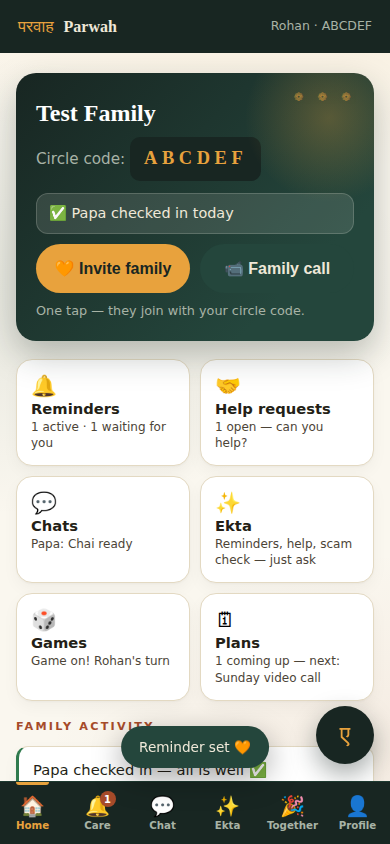
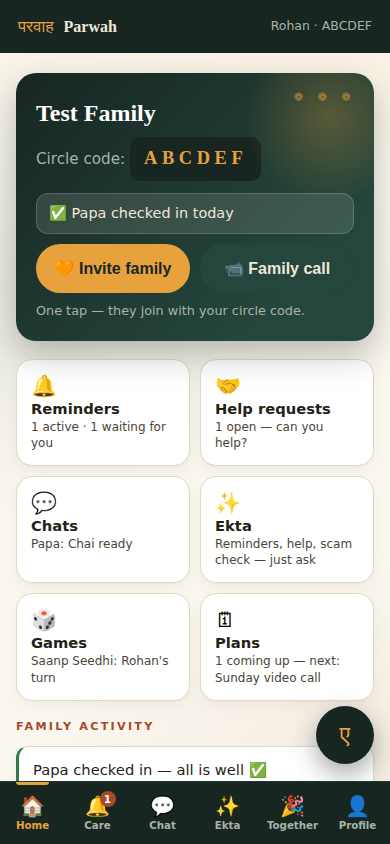
Two more live games: Antakshari + Dumb Charades (call companions)
- Antakshari: app referees the classic song game — big letter display,
  turn order, +1 scoring, next-letter handoff, pass; Ekta announces every
  move into family chat
- Dumb Charades: app secretly deals a Bollywood movie to the actor only
  (server-side privacy guarantee), guessed/flop scoring, turn rotation,
  chat announcements; guessers can never see the prompt
- One active game per circle across kinds; ending a score game announces
  the top scorer in chat
- Games picker: three live game cards + coming-soon tiles
- 19 deterministic engine tests + 102 UI assertions green; SW cache v6

Claude-Session: https://claude.ai/code/session_01Xh4mPyqB6yfT7fr4Jwisqv

Changed region(s): [[0.3077, 0.8626, 0.7077, 0.9242], [0.0615, 0.7701, 0.4308, 0.8318]]

diff --git a/site/public/app/index.html b/site/public/app/index.html
@@ -111,6 +111,8 @@ input[type=text]{width:100%;border:1px solid var(--bone-2);border-radius:12px;pa
 .seg button.sel{background:#fff;color:var(--ink);box-shadow:0 1px 3px rgba(0,0,0,.08)}
 .pageseg{margin:0 0 16px}
 .pageseg button{padding:11px 6px;font-size:.88rem}
+.bigletter{font-family:var(--disp);font-size:2.6rem;font-weight:700;color:var(--sindoor);text-align:center;background:#fff;border:2px dashed var(--marigold);border-radius:16px;padding:12px;margin:10px 0;letter-spacing:.1em}
+.bigletter.small{font-size:1.3rem;letter-spacing:0}
 .twist{border-radius:14px;padding:13px 15px;margin-top:10px;font-size:.92rem;border:1.5px solid}
 .twist b{display:block;font-size:.78rem;letter-spacing:.08em;text-transform:uppercase;margin-bottom:3px}
 .twist.dare{background:#FDF1EF;border-color:var(--sindoor);color:var(--ink)}
@@ -445,8 +447,18 @@ input[type=text]{width:100%;border:1px solid var(--bone-2);border-radius:12px;pa
     <div id="game-none">
       <div class="card">
         <h3>Saanp Seedhi 🐍🪜</h3>
-        <p>Snakes & Ladders with the whole circle — everyone's already in, one tap to roll. Turns work across any timezone.</p>
-        <button class="go" id="g-start">🎲 Start a game</button>
+        <p>Snakes & Ladders with a twist — snakes cost you a truth-or-dare, ladders earn rewards. Turns work across any timezone.</p>
+        <button class="go" id="g-start">🎲 Start Saanp Seedhi</button>
+      </div>
+      <div class="card">
+        <h3>Antakshari 🎤</h3>
+        <p>The classic song game, on a family call — the app keeps the letter, the turns and the score. Seniors' home turf!</p>
+        <button class="go" id="ga-start">🎤 Start Antakshari</button>
+      </div>
+      <div class="card">
+        <h3>Dumb Charades 🎭</h3>
+        <p>Act it out on the video call — the app secretly deals your Bollywood movie and keeps score. No talking!</p>
+        <button class="go" id="gc-start">🎭 Start Charades</button>
       </div>
       <div class="widgets">
         <div class="widget"><span class="wic" aria-hidden="true">🎯</span><b>Ludo</b><small>Coming soon</small></div>
@@ -456,7 +468,35 @@ input[type=text]{width:100%;border:1px solid var(--bone-2);border-radius:12px;pa
       </div>
     </div>
     <div id="game-on" hidden>
-      <div class="card">
+      <div class="card" id="g-ant" hidden>
+        <h3>Antakshari 🎤</h3>
+        <p class="hint" id="a-status" style="margin:4px 0 4px"></p>
+        <div class="bigletter" id="a-letter"></div>
+        <div class="members" id="a-scores"></div>
+        <div id="a-mine" hidden>
+          <div class="addrow">
+            <input type="text" id="a-next" maxlength="1" placeholder="Song ended on… (one letter)" style="text-transform:uppercase" aria-label="Next letter">
+            <button class="cbtn" id="a-sang">🎶 I sang it! +1</button>
+            <button class="cbtn no" id="a-pass">Pass 😅</button>
+          </div>
+        </div>
+        <p class="hint">Sing on the call or in the room — the app referees.</p>
+        <button class="cbtn no" id="a-end" style="margin-top:10px">End game</button>
+      </div>
+      <div class="card" id="g-cha" hidden>
+        <h3>Dumb Charades 🎭</h3>
+        <p class="hint" id="c-status" style="margin:4px 0 4px"></p>
+        <div class="bigletter small" id="c-prompt" hidden></div>
+        <div class="members" id="c-scores"></div>
+        <div id="c-mine" hidden style="display:flex;gap:8px;margin-top:10px;flex-wrap:wrap">
+          <button class="cbtn" id="c-draw">🎬 Draw a movie</button>
+          <button class="cbtn" id="c-guessed" hidden>They guessed it! +1</button>
+          <button class="cbtn no" id="c-flop" hidden>Nobody got it 🙈</button>
+        </div>
+        <p class="hint">Only the actor sees the movie. Act on the call — the app scores.</p>
+        <button class="cbtn no" id="c-end" style="margin-top:10px">End game</button>
+      </div>
+      <div class="card" id="g-snakes" hidden>
         <h3>Saanp Seedhi 🐍🪜</h3>
         <p class="hint" id="g-status" style="margin:4px 0 8px"></p>
         <div id="board"></div>
@@ -1246,13 +1286,46 @@ input[type=text]{width:100%;border:1px solid var(--bone-2);border-radius:12px;pa
     }
     $('board').innerHTML = h;
   }
+  function scoreChips(st){
+    return st.players.map(function(p, i){
+      return '<span class="member" style="border-left:3px solid ' + TOKC[i % TOKC.length] + '">' + esc(p.name) + ' <em>· ' + (p.score || 0) + '</em></span>';
+    }).join('');
+  }
   function renderGame(g){
     curGame = g;
     $('game-none').hidden = !!g;
     $('game-on').hidden = !g;
-    $('w-game').textContent = g ? 'Game on! ' + (g.state.winner ? g.state.winner + ' won 🎉' : g.state.players[g.state.turn].name + "'s turn") : 'Saanp Seedhi — play together';
-    if (!g) return;
-    var st = g.state;
+    ['g-snakes', 'g-ant', 'g-cha'].forEach(function(id){ $(id).hidden = true; });
+    if (!g) { $('w-game').textContent = '3 games live — play together'; return; }
+    var st = g.state, kind = st.kind || g.kind;
+    var turnP = st.players[st.turn], meTurn = turnP && turnP.id === state.memberId;
+    if (kind === 'antakshari') {
+      $('g-ant').hidden = false;
+      $('a-letter').textContent = st.letter;
+      $('a-scores').innerHTML = scoreChips(st);
+      $('a-status').textContent = meTurn ? 'Your stage — sing a song starting with "' + st.letter + '"!' : 'On stage: ' + turnP.name + ' · letter "' + st.letter + '"';
+      $('a-mine').hidden = !meTurn;
+      $('w-game').textContent = 'Antakshari on! ' + (meTurn ? 'Your turn 🎤' : turnP.name + "'s turn");
+      return;
+    }
+    if (kind === 'charades') {
+      $('g-cha').hidden = false;
+      $('c-scores').innerHTML = scoreChips(st);
+      var holding = !!st.prompt && String(st.prompt).indexOf('hidden') < 0;
+      $('c-prompt').hidden = !(meTurn && holding);
+      if (meTurn && holding) $('c-prompt').textContent = '🤫 ' + st.prompt;
+      $('c-status').textContent = meTurn
+        ? (holding ? 'Act it out — not a word!' : 'You are the actor — draw a movie')
+        : (st.prompt ? turnP.name + ' is acting… guess on the call!' : 'Waiting for ' + turnP.name + ' to draw');
+      $('c-mine').hidden = !meTurn;
+      $('c-draw').hidden = holding;
+      $('c-guessed').hidden = !holding;
+      $('c-flop').hidden = !holding;
+      $('w-game').textContent = 'Charades on! Actor: ' + turnP.name;
+      return;
+    }
+    $('g-snakes').hidden = false;
+    $('w-game').textContent = st.winner ? st.winner + ' won 🎉' : 'Saanp Seedhi: ' + turnP.name + "'s turn";
     renderBoard(st);
     var myTurn = !st.winner && st.players[st.turn] && st.players[st.turn].id === state.memberId;
     $('g-status').textContent = st.winner ? '🎉 ' + st.winner + ' won! Well played, everyone.'
@@ -1278,11 +1351,30 @@ input[type=text]{width:100%;border:1px solid var(--bone-2);border-radius:12px;pa
     fetch(API.plans + '?circle=' + encodeURIComponent(state.code) + '&member=' + encodeURIComponent(state.memberId))
       .then(function(r){ return r.json(); }).then(function(j){ if (j.ok) renderPlans(j.plans); }).catch(function(){});
   }
-  $('g-start').addEventListener('click', function(){
-    post(API.games, { code: state.code, memberId: state.memberId, action: 'start' })
-      .then(function(j){ if (j.ok) renderGame(j.game); else toast(j.error || 'Could not start'); })
+  function gamePost(body, after){
+    body.code = state.code; body.memberId = state.memberId;
+    if (curGame && !body.gameId && body.action !== 'start' && body.action.indexOf('start_') !== 0) body.gameId = curGame.id;
+    post(API.games, body)
+      .then(function(j){ if (j.ok) { if (j.game) renderGame(j.game); if (after) after(j); } else toast(j.error || 'Could not do that'); })
       .catch(function(){ toast('No connection — try again'); });
+  }
+  $('g-start').addEventListener('click', function(){ gamePost({ action: 'start' }); });
+  $('ga-start').addEventListener('click', function(){ gamePost({ action: 'start_antakshari' }); });
+  $('gc-start').addEventListener('click', function(){ gamePost({ action: 'start_charades' }); });
+  $('a-sang').addEventListener('click', function(){
+    var L = $('a-next').value.trim();
+    gamePost({ action: 'sang', letter: L }, function(){ $('a-next').value = ''; });
   });
+  $('a-pass').addEventListener('click', function(){ gamePost({ action: 'pass' }); });
+  $('c-draw').addEventListener('click', function(){ gamePost({ action: 'draw' }); });
+  $('c-guessed').addEventListener('click', function(){ gamePost({ action: 'guessed' }); });
+  $('c-flop').addEventListener('click', function(){ gamePost({ action: 'flop' }); });
+  function endGame(){
+    if (!curGame || !confirm('End the game for everyone?')) return;
+    gamePost({ action: 'end', gameId: curGame.id }, function(){ curGame = null; refreshFun(); });
+  }
+  $('a-end').addEventListener('click', endGame);
+  $('c-end').addEventListener('click', endGame);
   $('g-roll').addEventListener('click', function(){
     if (!curGame) return;
     post(API.games, { code: state.code, memberId: state.memberId, action: 'roll', gameId: curGame.id })

diff --git a/site/public/app/sw.js b/site/public/app/sw.js
@@ -1,6 +1,6 @@
 // Parwah app service worker — makes the app installable and keeps the shell
 // available offline. API calls always go to the network.
-var CACHE = 'parwah-app-v5';
+var CACHE = 'parwah-app-v6';
 var SHELL = ['/app/', '/app/manifest.webmanifest', '/app/icon-192.png'];
 
 self.addEventListener('install', function (e) {
